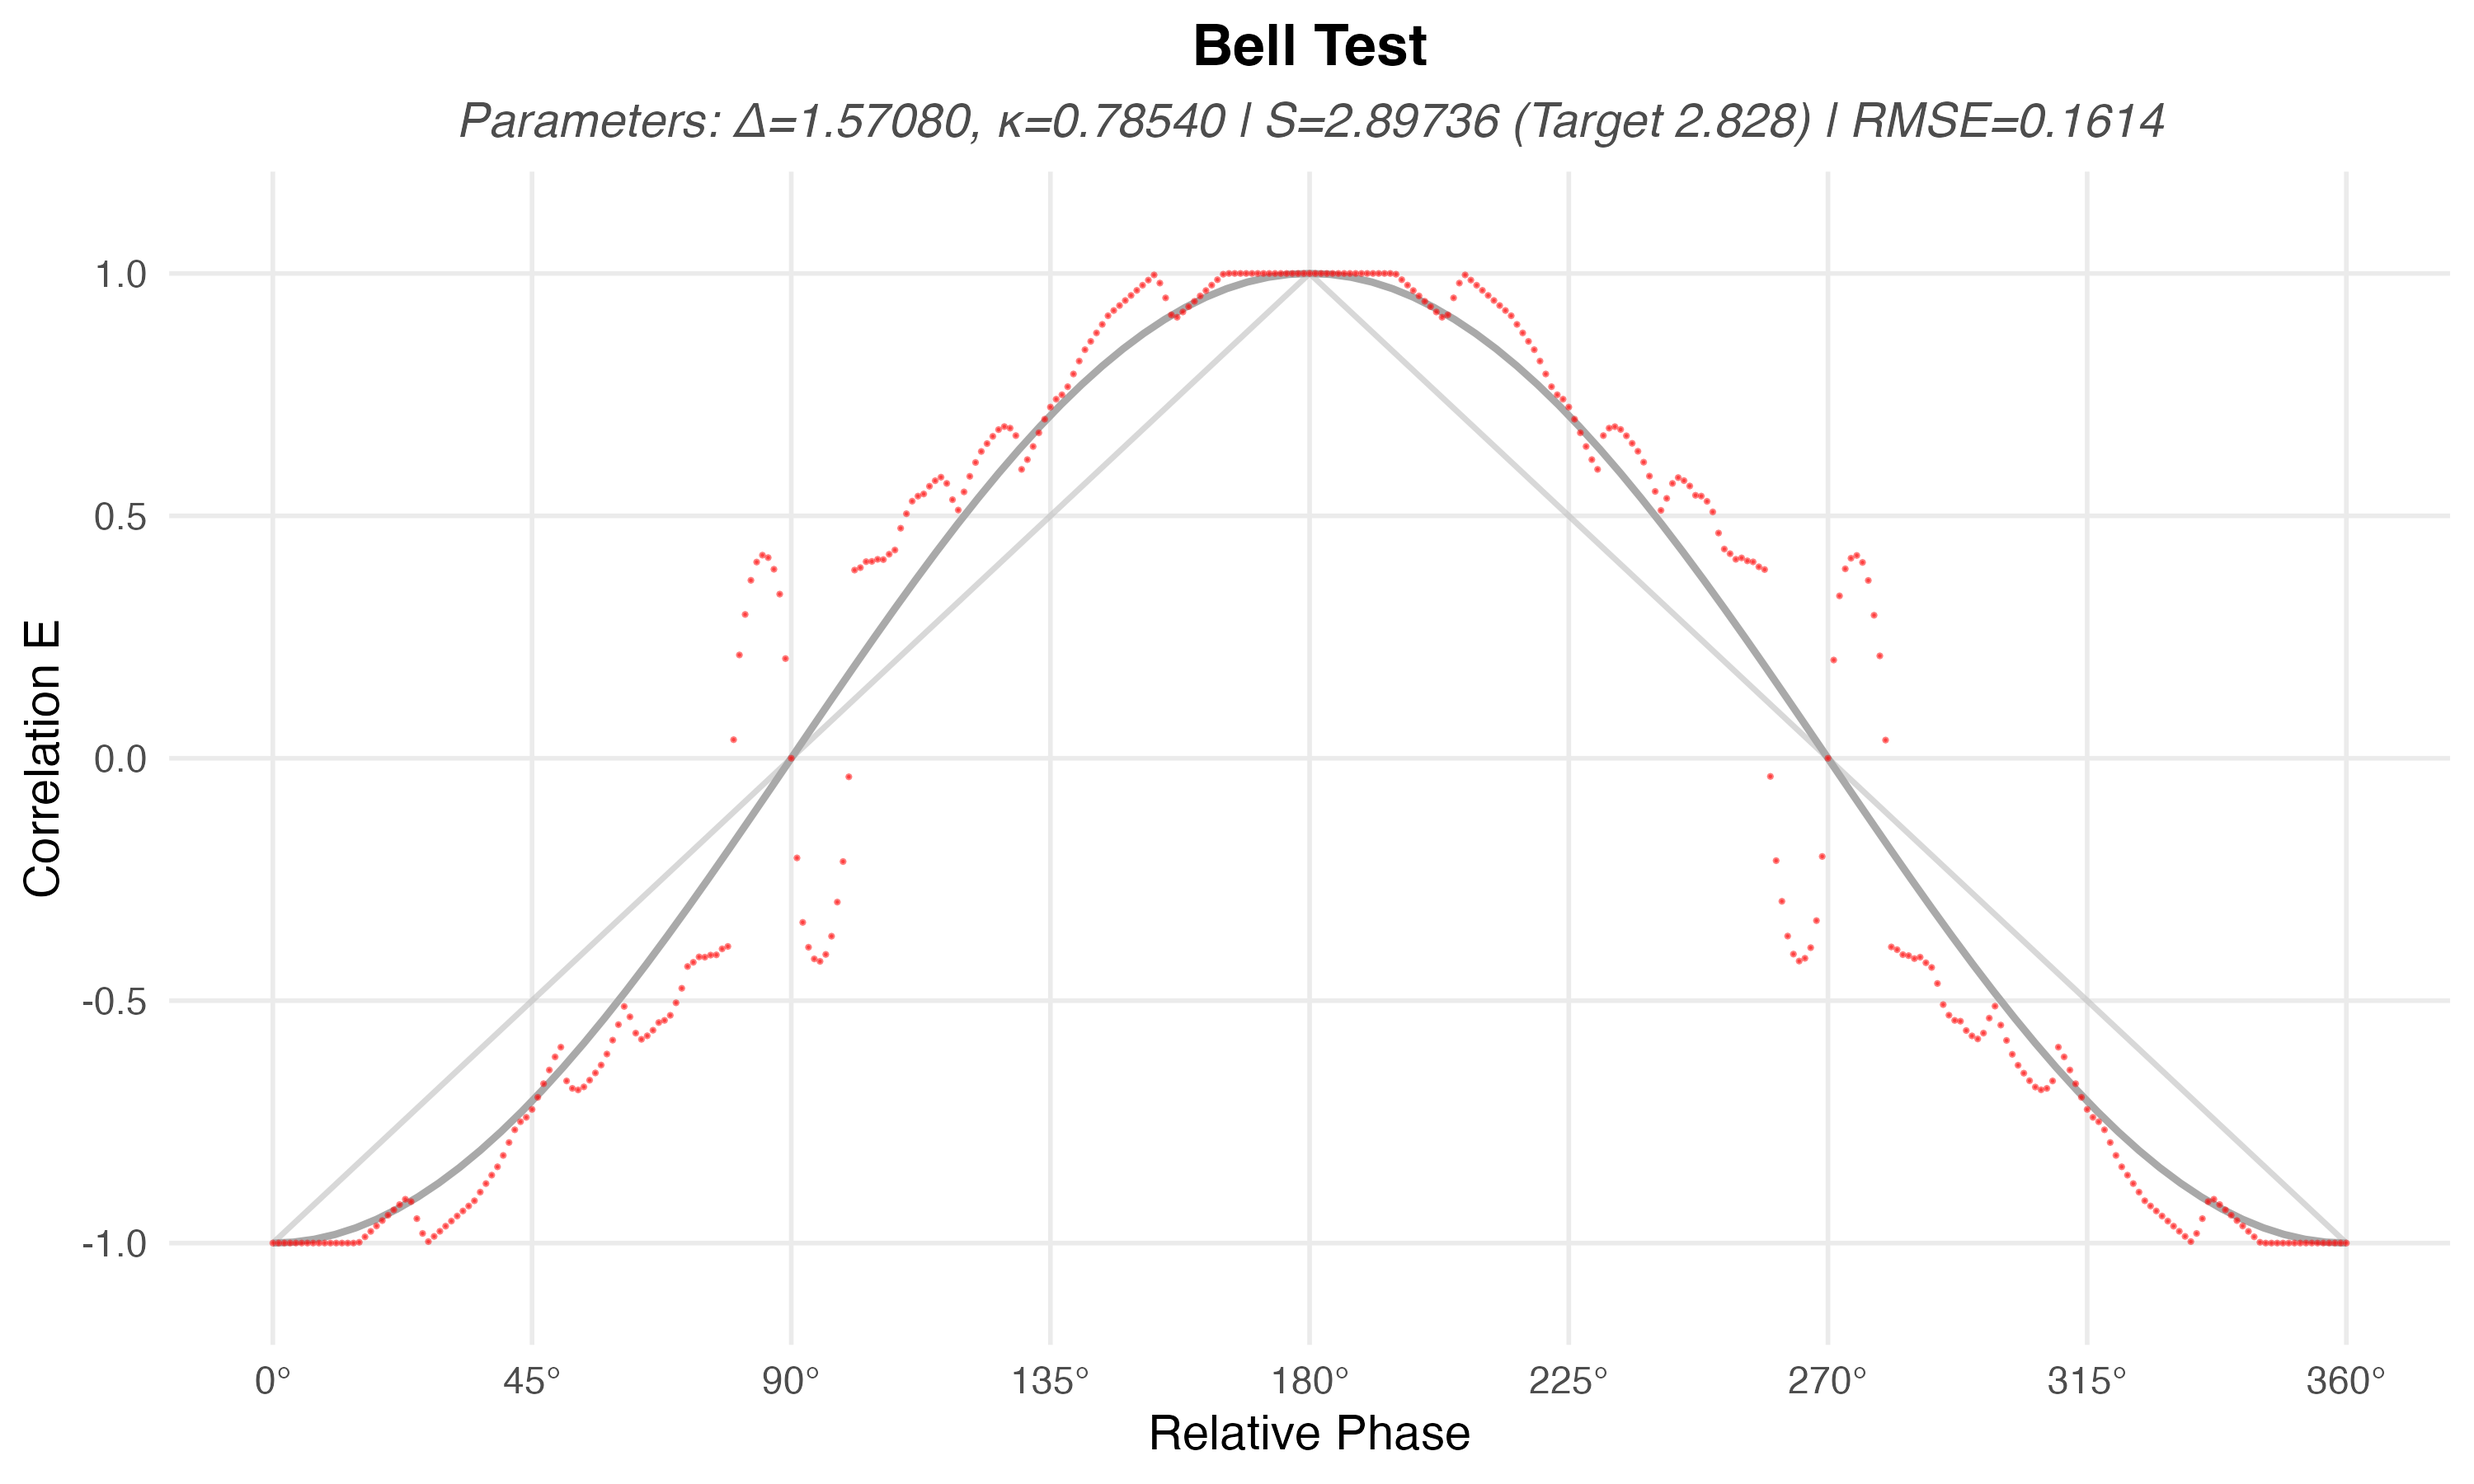
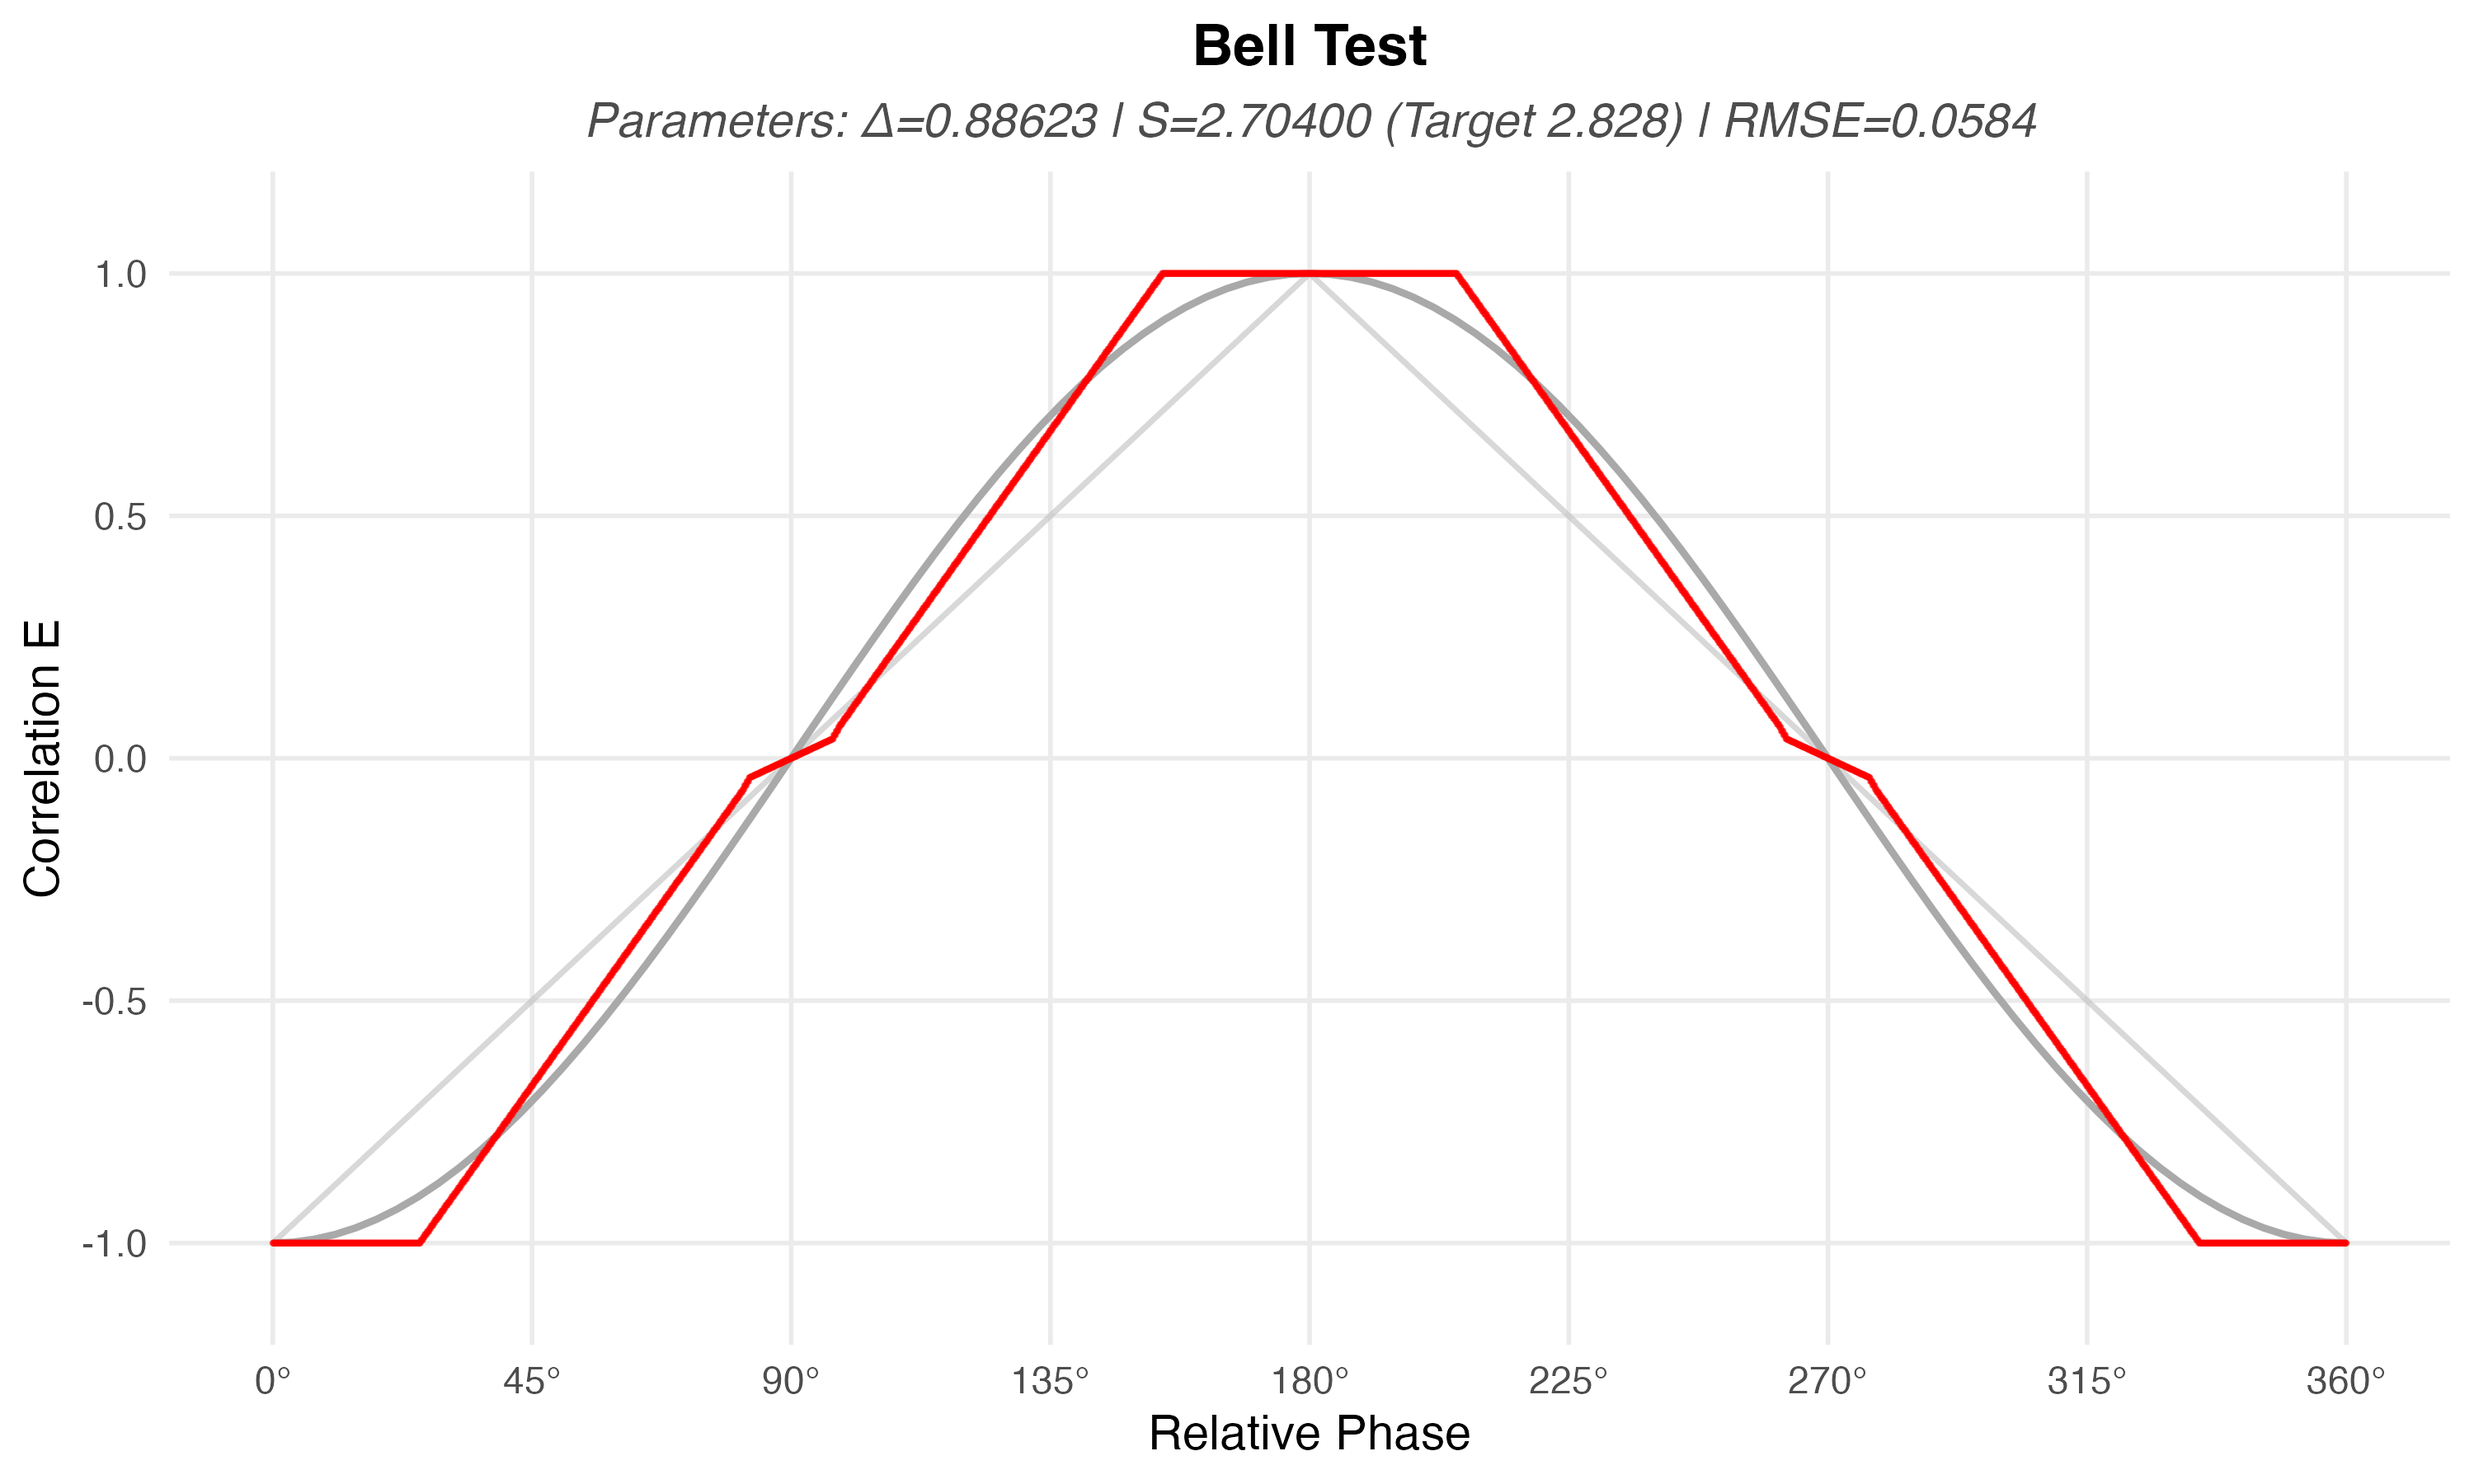
the much simpler model worked very well and landed with a n intutieive value for angluat momentum

diff --git a/src/bell_test_simulator.cpp b/src/bell_test_simulator.cpp
@@ -8,154 +8,74 @@
 
 using namespace Rcpp;
 
-inline double planck_sin(double angle, double theta_0) {
-  // If the magnitude is less than the planck floor, clamp it to the floor.
-  // We preserve the sign of the original angle.
-  if (std::abs(angle) < theta_0) {
-    return std::sin((angle < 0) ? -theta_0 : theta_0);
-  }
-  return std::sin(angle);
-}
-
-// Returns cos(angle), respecting the same planck limit relative to 90 degrees.
-// Physics: Prevents Singularity at 90 degrees (Infinite Information).
-inline double planck_cos(double angle, double theta_0) {
-  // 1. Check proximity to +/- 90 degrees (The Orthogonal Singularity)
-  // Distance from PI/2 (90 deg) or -PI/2 (-90 deg)
-  double abs_angle = std::abs(angle);
-  double dist_from_90 = std::abs(M_PI_2 - abs_angle);
-
-  if (dist_from_90 < theta_0) {
-    // We are within the vacuum wedge of 90 degrees.
-    // Clamp the angle to (90 - theta_0) so cosine doesn't vanish.
-    // Preserve the sign of the cosine (which flips at 90).
-    // Actually, at exactly 90, cos is 0.
-    // We want the minimum non-zero value: cos(90 - theta_0).
-
-    // Determine sign of the result based on quadrant
-    // Cosine is positive in Q1/Q4, negative in Q2/Q3.
-    // Simple trick: use the sign of cos(angle) unless it's exactly 0.
-    double native_cos = std::cos(angle);
-    double sign = (native_cos >= 0) ? 1.0 : -1.0;
-
-    // Return the minimum vacuum cosine
-    return sign * std::cos(M_PI_2 - theta_0);
-  }
-
-  // 2. Check near 0 (Consistency, though less critical for cos)
-  if (abs_angle < theta_0) {
-    return std::cos((angle < 0) ? -theta_0 : theta_0);
-  }
-
-  return std::cos(angle);
-}
-
 //' @export
 // [[Rcpp::export]]
 void micro_macro_bell_erasure_sweep(
-    NumericVector angles,
-    double detector_aperture,  // PHYSICS: The Characteristic Angle (theta_0)
+    NumericVector detector_angles,
     std::string dir,
-    int count,                 // Number of particles to simulate (Loop limit)
-    double kappa,              // Detector Geometry Parameter
-    double delta_particle,     // Source Physics Parameter
-    double mu_start,
-    double mu_end,
+    int count,
+    double angular_momentum,
+    double microstate_particle_angle_start,
+    double microstate_particle_angle_end,
     int n_threads = 0
 ) {
   int max_depth = 2000;
-  std::vector<double> angles_cpp = Rcpp::as<std::vector<double>>(angles);
-  size_t n = angles_cpp.size();
-
-  // --- PHYSICS: CHARACTERISTIC ANGLE (THETA_0) ---
-  // The detector aperture defines the fundamental quantum of angle for this apparatus.
-  // It represents the ground state width of the phase space wedge.
-  double theta_0 = detector_aperture * (M_PI / 180.0);
-
-  // Safety: Ensure we don't divide by zero if user passes 0.0
-  if (theta_0 < 1e-15) theta_0 = 1e-15;
+  std::vector<double> detector_angles_cpp = Rcpp::as<std::vector<double>>(detector_angles);
+  size_t n = detector_angles_cpp.size();
 
   int threads = (n_threads <= 0) ? (int)std::thread::hardware_concurrency() - 2 : n_threads;
   if (threads < 1) threads = 1;
 
   RcppThread::ThreadPool pool(threads);
 
-  // Outer loop: Angles (Phase Sweep)
   pool.parallelFor(0, n, [&](int i) {
-    double angle_deg = angles_cpp[i];
-    double angle_rad = angle_deg * (M_PI / 180.0);
+    double detector_angle_deg = detector_angles_cpp[i];
+    double detector_angle_rad = detector_angle_deg * (M_PI / 180.0);
 
     char f_a[128], f_b[128];
-    std::snprintf(f_a, sizeof(f_a), "erasure_alice_%013.6f.csv.gz", angle_deg);
-    std::snprintf(f_b, sizeof(f_b), "erasure_bob_%013.6f.csv.gz", angle_deg);
+    std::snprintf(f_a, sizeof(f_a), "erasure_alice_%013.6f.csv.gz", detector_angle_deg);
+    std::snprintf(f_b, sizeof(f_b), "erasure_bob_%013.6f.csv.gz", detector_angle_deg);
 
     gzFile file_a = gzopen((dir + "/" + f_a).c_str(), "wb1");
     gzFile file_b = gzopen((dir + "/" + f_b).c_str(), "wb1");
 
-    // Header
     const char* header = "angle,spin,erasure_distance,microstate,macrostate,uncertainty,numerator,denominator,stern_brocot_path,minimal_program,program_length,shannon_entropy,left_count,right_count,max_search_depth,found\n";
 
     gzprintf(file_a, header);
     gzprintf(file_b, header);
 
-    // Inner loop: Particle Count (Simulation Iterations)
     for (int j = 0; j < count; j++) {
 
-      // --- STEP 1: DETERMINISTIC SOURCE GENERATION ---
-      double mu_particle = mu_start + (mu_end - mu_start) * ((double)j / (double)(count - 1));
+      double microstate_particle_angle = microstate_particle_angle_start + (microstate_particle_angle_end - microstate_particle_angle_start) * ((double)j / (double)(count - 1));
 
-      // Apply Source Constraint
-      EraseResult erasure = erase_single_native(mu_particle, delta_particle, max_depth);
+      EraseResult erasure = erase_single_native(microstate_particle_angle, 1/angular_momentum, max_depth);
 
-      // Define Particle
-      double particle = erasure.found ? erasure.erasure_distance : mu_particle;
-      double particle_a = particle;
-      double particle_b = -particle;
+      double particle_angle_alice = erasure.found ? erasure.erasure_distance : microstate_particle_angle;
+      double particle_angle_bob   = -particle_angle_alice;
 
-      // --- STEP 2: MEASUREMENT (Detector Interaction) ---
-      double phase_a = angle_rad - particle_a;
-      double phase_b = angle_rad - particle_b;
+      double phase_alice = detector_angle_rad - particle_angle_alice;
+      double phase_bob   = detector_angle_rad - particle_angle_bob;
 
-      // --- ALICE ---
-      // We use planck_sin/cos to enforce the Planck-scale geometry.
-      // This automatically handles the P >= 1 constraint (Projection >= planck Mode).
-      double proj_a = std::abs(planck_sin(phase_a, theta_0));
-      double cost_a = std::pow(planck_cos(phase_a, theta_0), 2);
-
-      double delta_a = kappa * cost_a / proj_a;
-
-      // --- BOB ---
-      double proj_b = std::abs(planck_sin(phase_b, theta_0));
-      double cost_b = std::pow(planck_cos(phase_b, theta_0), 2);
-
-      double delta_b = kappa * cost_b / proj_b;
-
-      // Erase
-      EraseResult res_a = erase_single_native(particle_a, delta_a, max_depth);
-      EraseResult res_b = erase_single_native(particle_b, delta_b, max_depth);
-
-      // --- STEP 3: OBSERVE SPIN ---
-      // Determine spin direction using planck geometry for consistency
-      int spin_a = ((res_a.erasure_distance >= 0) ? 1 : -1) * ((planck_cos(phase_a, theta_0) >= 0) ? 1 : -1);
-      int spin_b = ((res_b.erasure_distance >= 0) ? 1 : -1) * ((planck_cos(phase_b, theta_0) >= 0) ? 1 : -1);
+      int spin_alice = std::cos(phase_alice) >= 0 ? 1 : -1;
+      int spin_bob   = std::cos(phase_bob) >= 0   ? 1 : -1;
 
       // ROW A
       gzprintf(file_a, "%.6f,%d,%.6f,%.6f,%.6f,%.6f,%.0f,%.0f,%s,%s,%d,%.6f,%d,%d,%d,%d\n",
-               angle_deg, spin_a,
-               res_a.erasure_distance, particle_a, res_a.macrostate, delta_a,
-               res_a.numerator, res_a.denominator,
-               res_a.stern_brocot_path.c_str(), res_a.minimal_program.c_str(),
-               res_a.program_length, res_a.shannon_entropy, res_a.left_count, res_a.right_count,
-               max_depth, (int)res_a.found);
+               detector_angle_deg, spin_alice,
+               erasure.erasure_distance, particle_angle_alice, erasure.macrostate, erasure.uncertainty,
+               erasure.numerator, erasure.denominator,
+               erasure.stern_brocot_path.c_str(), erasure.minimal_program.c_str(),
+               erasure.program_length, erasure.shannon_entropy, erasure.left_count, erasure.right_count,
+               max_depth, (int)erasure.found);
 
       // ROW B
       gzprintf(file_b, "%.6f,%d,%.6f,%.6f,%.6f,%.6f,%.0f,%.0f,%s,%s,%d,%.6f,%d,%d,%d,%d\n",
-               angle_deg, spin_b,
-               res_b.erasure_distance, particle_b, res_b.macrostate, delta_b,
-               res_b.numerator, res_b.denominator,
-               res_b.stern_brocot_path.c_str(), res_b.minimal_program.c_str(),
-               res_b.program_length, res_b.shannon_entropy, res_b.left_count, res_b.right_count,
-               max_depth, (int)res_b.found);
+               detector_angle_deg, spin_bob,
+               erasure.erasure_distance, particle_angle_bob, erasure.macrostate, erasure.uncertainty,
+               erasure.numerator, erasure.denominator,
+               erasure.stern_brocot_path.c_str(), erasure.minimal_program.c_str(),
+               erasure.program_length, erasure.shannon_entropy, erasure.left_count, erasure.right_count,
+               max_depth, (int)erasure.found);
     }
     gzclose(file_a);
     gzclose(file_b);

diff --git a/src/RcppExports.cpp b/src/RcppExports.cpp
@@ -12,20 +12,18 @@ Rcpp::Rostream<false>& Rcpp::Rcerr = Rcpp::Rcpp_cerr_get();
 #endif
 
 // micro_macro_bell_erasure_sweep
-void micro_macro_bell_erasure_sweep(NumericVector angles, double detector_aperture, std::string dir, int count, double kappa, double delta_particle, double mu_start, double mu_end, int n_threads);
-RcppExport SEXP _SternBrocotPhysics_micro_macro_bell_erasure_sweep(SEXP anglesSEXP, SEXP detector_apertureSEXP, SEXP dirSEXP, SEXP countSEXP, SEXP kappaSEXP, SEXP delta_particleSEXP, SEXP mu_startSEXP, SEXP mu_endSEXP, SEXP n_threadsSEXP) {
+void micro_macro_bell_erasure_sweep(NumericVector detector_angles, std::string dir, int count, double angular_momentum, double microstate_particle_angle_start, double microstate_particle_angle_end, int n_threads);
+RcppExport SEXP _SternBrocotPhysics_micro_macro_bell_erasure_sweep(SEXP detector_anglesSEXP, SEXP dirSEXP, SEXP countSEXP, SEXP angular_momentumSEXP, SEXP microstate_particle_angle_startSEXP, SEXP microstate_particle_angle_endSEXP, SEXP n_threadsSEXP) {
 BEGIN_RCPP
     Rcpp::RNGScope rcpp_rngScope_gen;
-    Rcpp::traits::input_parameter< NumericVector >::type angles(anglesSEXP);
-    Rcpp::traits::input_parameter< double >::type detector_aperture(detector_apertureSEXP);
+    Rcpp::traits::input_parameter< NumericVector >::type detector_angles(detector_anglesSEXP);
     Rcpp::traits::input_parameter< std::string >::type dir(dirSEXP);
     Rcpp::traits::input_parameter< int >::type count(countSEXP);
-    Rcpp::traits::input_parameter< double >::type kappa(kappaSEXP);
-    Rcpp::traits::input_parameter< double >::type delta_particle(delta_particleSEXP);
-    Rcpp::traits::input_parameter< double >::type mu_start(mu_startSEXP);
-    Rcpp::traits::input_parameter< double >::type mu_end(mu_endSEXP);
+    Rcpp::traits::input_parameter< double >::type angular_momentum(angular_momentumSEXP);
+    Rcpp::traits::input_parameter< double >::type microstate_particle_angle_start(microstate_particle_angle_startSEXP);
+    Rcpp::traits::input_parameter< double >::type microstate_particle_angle_end(microstate_particle_angle_endSEXP);
     Rcpp::traits::input_parameter< int >::type n_threads(n_threadsSEXP);
-    micro_macro_bell_erasure_sweep(angles, detector_aperture, dir, count, kappa, delta_particle, mu_start, mu_end, n_threads);
+    micro_macro_bell_erasure_sweep(detector_angles, dir, count, angular_momentum, microstate_particle_angle_start, microstate_particle_angle_end, n_threads);
     return R_NilValue;
 END_RCPP
 }
@@ -107,7 +105,7 @@ END_RCPP
 }
 
 static const R_CallMethodDef CallEntries[] = {
-    {"_SternBrocotPhysics_micro_macro_bell_erasure_sweep", (DL_FUNC) &_SternBrocotPhysics_micro_macro_bell_erasure_sweep, 9},
+    {"_SternBrocotPhysics_micro_macro_bell_erasure_sweep", (DL_FUNC) &_SternBrocotPhysics_micro_macro_bell_erasure_sweep, 7},
     {"_SternBrocotPhysics_erase_uncertainty", (DL_FUNC) &_SternBrocotPhysics_erase_uncertainty, 2},
     {"_SternBrocotPhysics_erase_depth", (DL_FUNC) &_SternBrocotPhysics_erase_depth, 2},
     {"_SternBrocotPhysics_erase_uncertainty_and_depth", (DL_FUNC) &_SternBrocotPhysics_erase_uncertainty_and_depth, 3},
